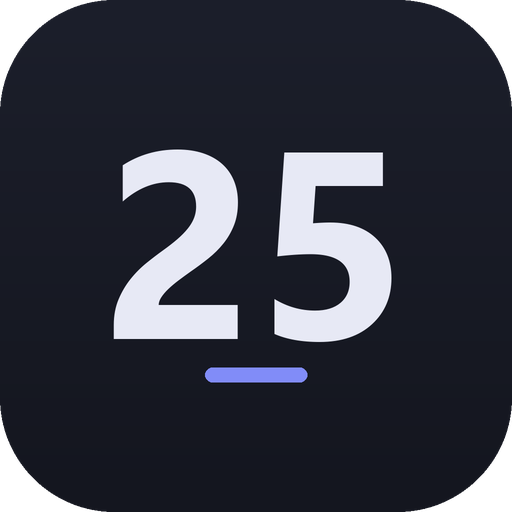
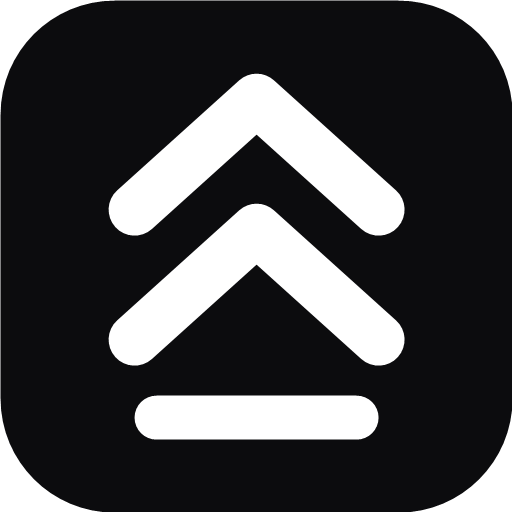
Cool Stuff

diff --git a/index.html b/index.html
@@ -30,7 +30,7 @@
 
 <div class="sidebar">
   <div class="brand">
-    <div class="brand-icon"><svg viewBox="0 0 24 24" fill="#fff" xmlns="http://www.w3.org/2000/svg"><path d="M21 16v-2l-8-5V3.5c0-.83-.67-1.5-1.5-1.5S10 2.67 10 3.5V9l-8 5v2l8-2.5V19l-2.5 1.5V22l4-1 4 1v-1.5L13 19v-5.5l8 2.5z"/></svg></div>
+    <div class="brand-icon"><svg viewBox="0 0 24 24" fill="none" stroke="#fff" stroke-width="2.4" stroke-linecap="round" stroke-linejoin="round" xmlns="http://www.w3.org/2000/svg"><path d="M6.3 9.8 12 4.6l5.7 5.2"/><path d="M6.3 15.9 12 10.7l5.7 5.2"/><path d="M6.3 20.6h11.4"/></svg></div>
     <div class="brand-name">Project 25</div>
     <div class="nav-right-group" id="navRightGroup">
       <div class="nav-clock-status" id="navClockStatus" style="display:none;" title=""></div>
@@ -890,7 +890,7 @@
           <div class="motivation-menu-group">
             <div class="motivation-menu-label">Add</div>
             <button class="motivation-menu-item" id="addMotivationCategoryBtn">+ New collection</button>
-            <button class="motivation-menu-item" id="addPinterestCategoryBtn" title="A collection that pulls 10 random pins from your Pinterest, fresh every day">📌 New Pinterest collection</button>
+            <button class="motivation-menu-item" id="addPinterestCategoryBtn" title="A collection that pulls 25 random pins from your Pinterest, fresh every day">📌 New Pinterest collection</button>
           </div>
 
           <div class="motivation-menu-group">

diff --git a/js/motivation.js b/js/motivation.js
@@ -28,7 +28,7 @@
   // i.pinimg.com URLs, so a category costs nothing and a refresh leaves nothing behind.
   // The 📌 button on a thumbnail copies that pin into PINTEREST_SAVED_CAT_NAME, an ordinary
   // category the daily refresh never touches — that's how a good pin outlives its day.
-  const PINTEREST_PICK_COUNT = 10;
+  const PINTEREST_PICK_COUNT = 25;
   const PINTEREST_SAVED_CAT_NAME = 'Saved Pins';
   let pinterestSyncing = false; // one sync at a time — renderAll and the tab-open hook can both fire
 

diff --git a/sw.js b/sw.js
@@ -5,7 +5,7 @@
    this worker deliberately leaves supabase.co requests alone so load()/save()
    see real network failures instead of a stale cached API response.
 ------------------------------------------------- */
-const SHELL_CACHE = 'p25-shell-v4';
+const SHELL_CACHE = 'p25-shell-v5';
 const RUNTIME_CACHE = 'p25-runtime-v1';
 const CURRENT_CACHES = [SHELL_CACHE, RUNTIME_CACHE];
 

diff --git a/README.md b/README.md
@@ -200,7 +200,7 @@ Five Edge Functions (`supabase/functions/`), called via `supabase.functions.invo
 - **`upload-fitness-photo`** — uploads a Fitness tab progress photo straight to a Google Drive folder on the app owner's behalf. Uses a one-time-obtained Google OAuth refresh token (server secret) to mint a fresh access token per call, so uploads are fully automatic — no per-upload consent prompt. Only the returned Drive file id/link are saved into app state; the image bytes themselves live only in Drive.
 - **`upload-resume`** — same pattern as `upload-fitness-photo`, for the Jobs tab's per-application resume PDF attachment: uploads straight to a Google Drive folder named "Uploaded Resumes" (auto-created on first use if it doesn't exist, or pinned to a specific folder via the optional `GOOGLE_DRIVE_RESUMES_FOLDER_ID` secret), reusing the same `GOOGLE_CLIENT_ID`/`GOOGLE_CLIENT_SECRET`/`GOOGLE_REFRESH_TOKEN` secrets as the fitness-photo function — no separate Google OAuth setup needed if that's already configured. Only the Drive file id/link are saved into app state; the PDF bytes live only in Drive.
 
-- **`pinterest-feed`** — reads a Pinterest profile's public RSS feeds and returns its pins as JSON. No secret is involved — it exists purely because Pinterest serves no CORS headers, so the browser can't read those files itself. The Motivation tab uses it for **Pinterest collections**: a category with `source: 'pinterest'` replaces its images with 10 random pins the first time the app is opened on a new day (`cat.lastSync` holds the day key), so the slideshow shows something different every morning. Images stay as `i.pinimg.com` URLs — nothing is copied into Storage, so a refresh leaves nothing behind. The 📌 on a thumbnail copies that pin into an ordinary category called **Saved Pins**, which the daily refresh never touches. The username is validated against `^[A-Za-z0-9_][A-Za-z0-9_-]{0,58}$` server-side — it's interpolated into the fetched URLs' paths, so that check is the whole SSRF guard.
+- **`pinterest-feed`** — reads a Pinterest profile's public RSS feeds and returns its pins as JSON. No secret is involved — it exists purely because Pinterest serves no CORS headers, so the browser can't read those files itself. The Motivation tab uses it for **Pinterest collections**: a category with `source: 'pinterest'` replaces its images with 25 random pins the first time the app is opened on a new day (`cat.lastSync` holds the day key), so the slideshow shows something different every morning. Images stay as `i.pinimg.com` URLs — nothing is copied into Storage, so a refresh leaves nothing behind. The 📌 on a thumbnail copies that pin into an ordinary category called **Saved Pins**, which the daily refresh never touches. The username is validated against `^[A-Za-z0-9_][A-Za-z0-9_-]{0,58}$` server-side — it's interpolated into the fetched URLs' paths, so that check is the whole SSRF guard.
 
   **Why it fetches every board, not just `/<user>/feed.rss`.** That profile feed is a fixed window of the ~25 most recent saves and has no pagination — `?page=` and `?limit=` are ignored — so on its own the collection could only ever show what you pinned lately. Each *board* feed (`/<user>/<board>.rss`) has its own ~26-item window, and a board you last added to a year ago returns year-old pins, so merging every board is what reaches back into the archive: measured 138–378 unique pins across real profiles versus 23 from the profile feed alone. Board slugs are scraped from the profile page's own HTML (`"/<user>/<slug>/"`, minus a reserved-slug list) and fetched through a 6-wide worker pool, ~3.5s for a full merge. Best-effort by design — Pinterest lazy-loads boards past the first screenful, so a profile with dozens of boards yields the first ~10–15, and any discovery failure falls back to the profile feed alone. Note this reads the profile's *own* pins throughout: the logged-in home feed (pins from accounts you follow) is private, with no RSS or public API.
 
@@ -219,7 +219,7 @@ Five Edge Functions (`supabase/functions/`), called via `supabase.functions.invo
 | HenrikDev Valorant API (`api.henrikdev.xyz`) | Rank/RR/match history lookups | Free key, user-supplied, stored in `state.valorant.apiKey` |
 | valorant-api.com | Rank tier icons, agent art, skin/bundle names & images, accessory-shop item names & art (sprays/buddies/player cards/titles), weapon skin catalog + content tiers (reference data) | None (public) |
 | open.er-api.com | Live currency exchange rates ("Fetch Live Rates" button) | None (public) |
-| Pinterest RSS (`pinterest.com/<user>/feed.rss` + each `/<user>/<board>.rss`, via the `pinterest-feed` function) | The daily 10 random pins in a Motivation "Pinterest collection" | None (public profile + board feeds) |
+| Pinterest RSS (`pinterest.com/<user>/feed.rss` + each `/<user>/<board>.rss`, via the `pinterest-feed` function) | The daily 25 random pins in a Motivation "Pinterest collection" | None (public profile + board feeds) |
 | Anthropic API (via `suggest-subtasks` function) | Goal subtask suggestions | Server-side secret only |
 | Google Drive API (via `upload-fitness-photo`/`upload-resume` functions) | Auto-storing fitness progress photos and Jobs-tab resume PDFs | Server-side OAuth refresh token only |
 | Riot internal client API (`auth.riotgames.com`, `pd.*.a.pvp.net`, via `scripts/valorant-check-store.mjs`) | Daily personal store rotation + weekly accessory shop + (via the Local Helper's "Check Owned Skins") owned-skin entitlements | Local session cookie only, never leaves your machine — see "Setup" |
